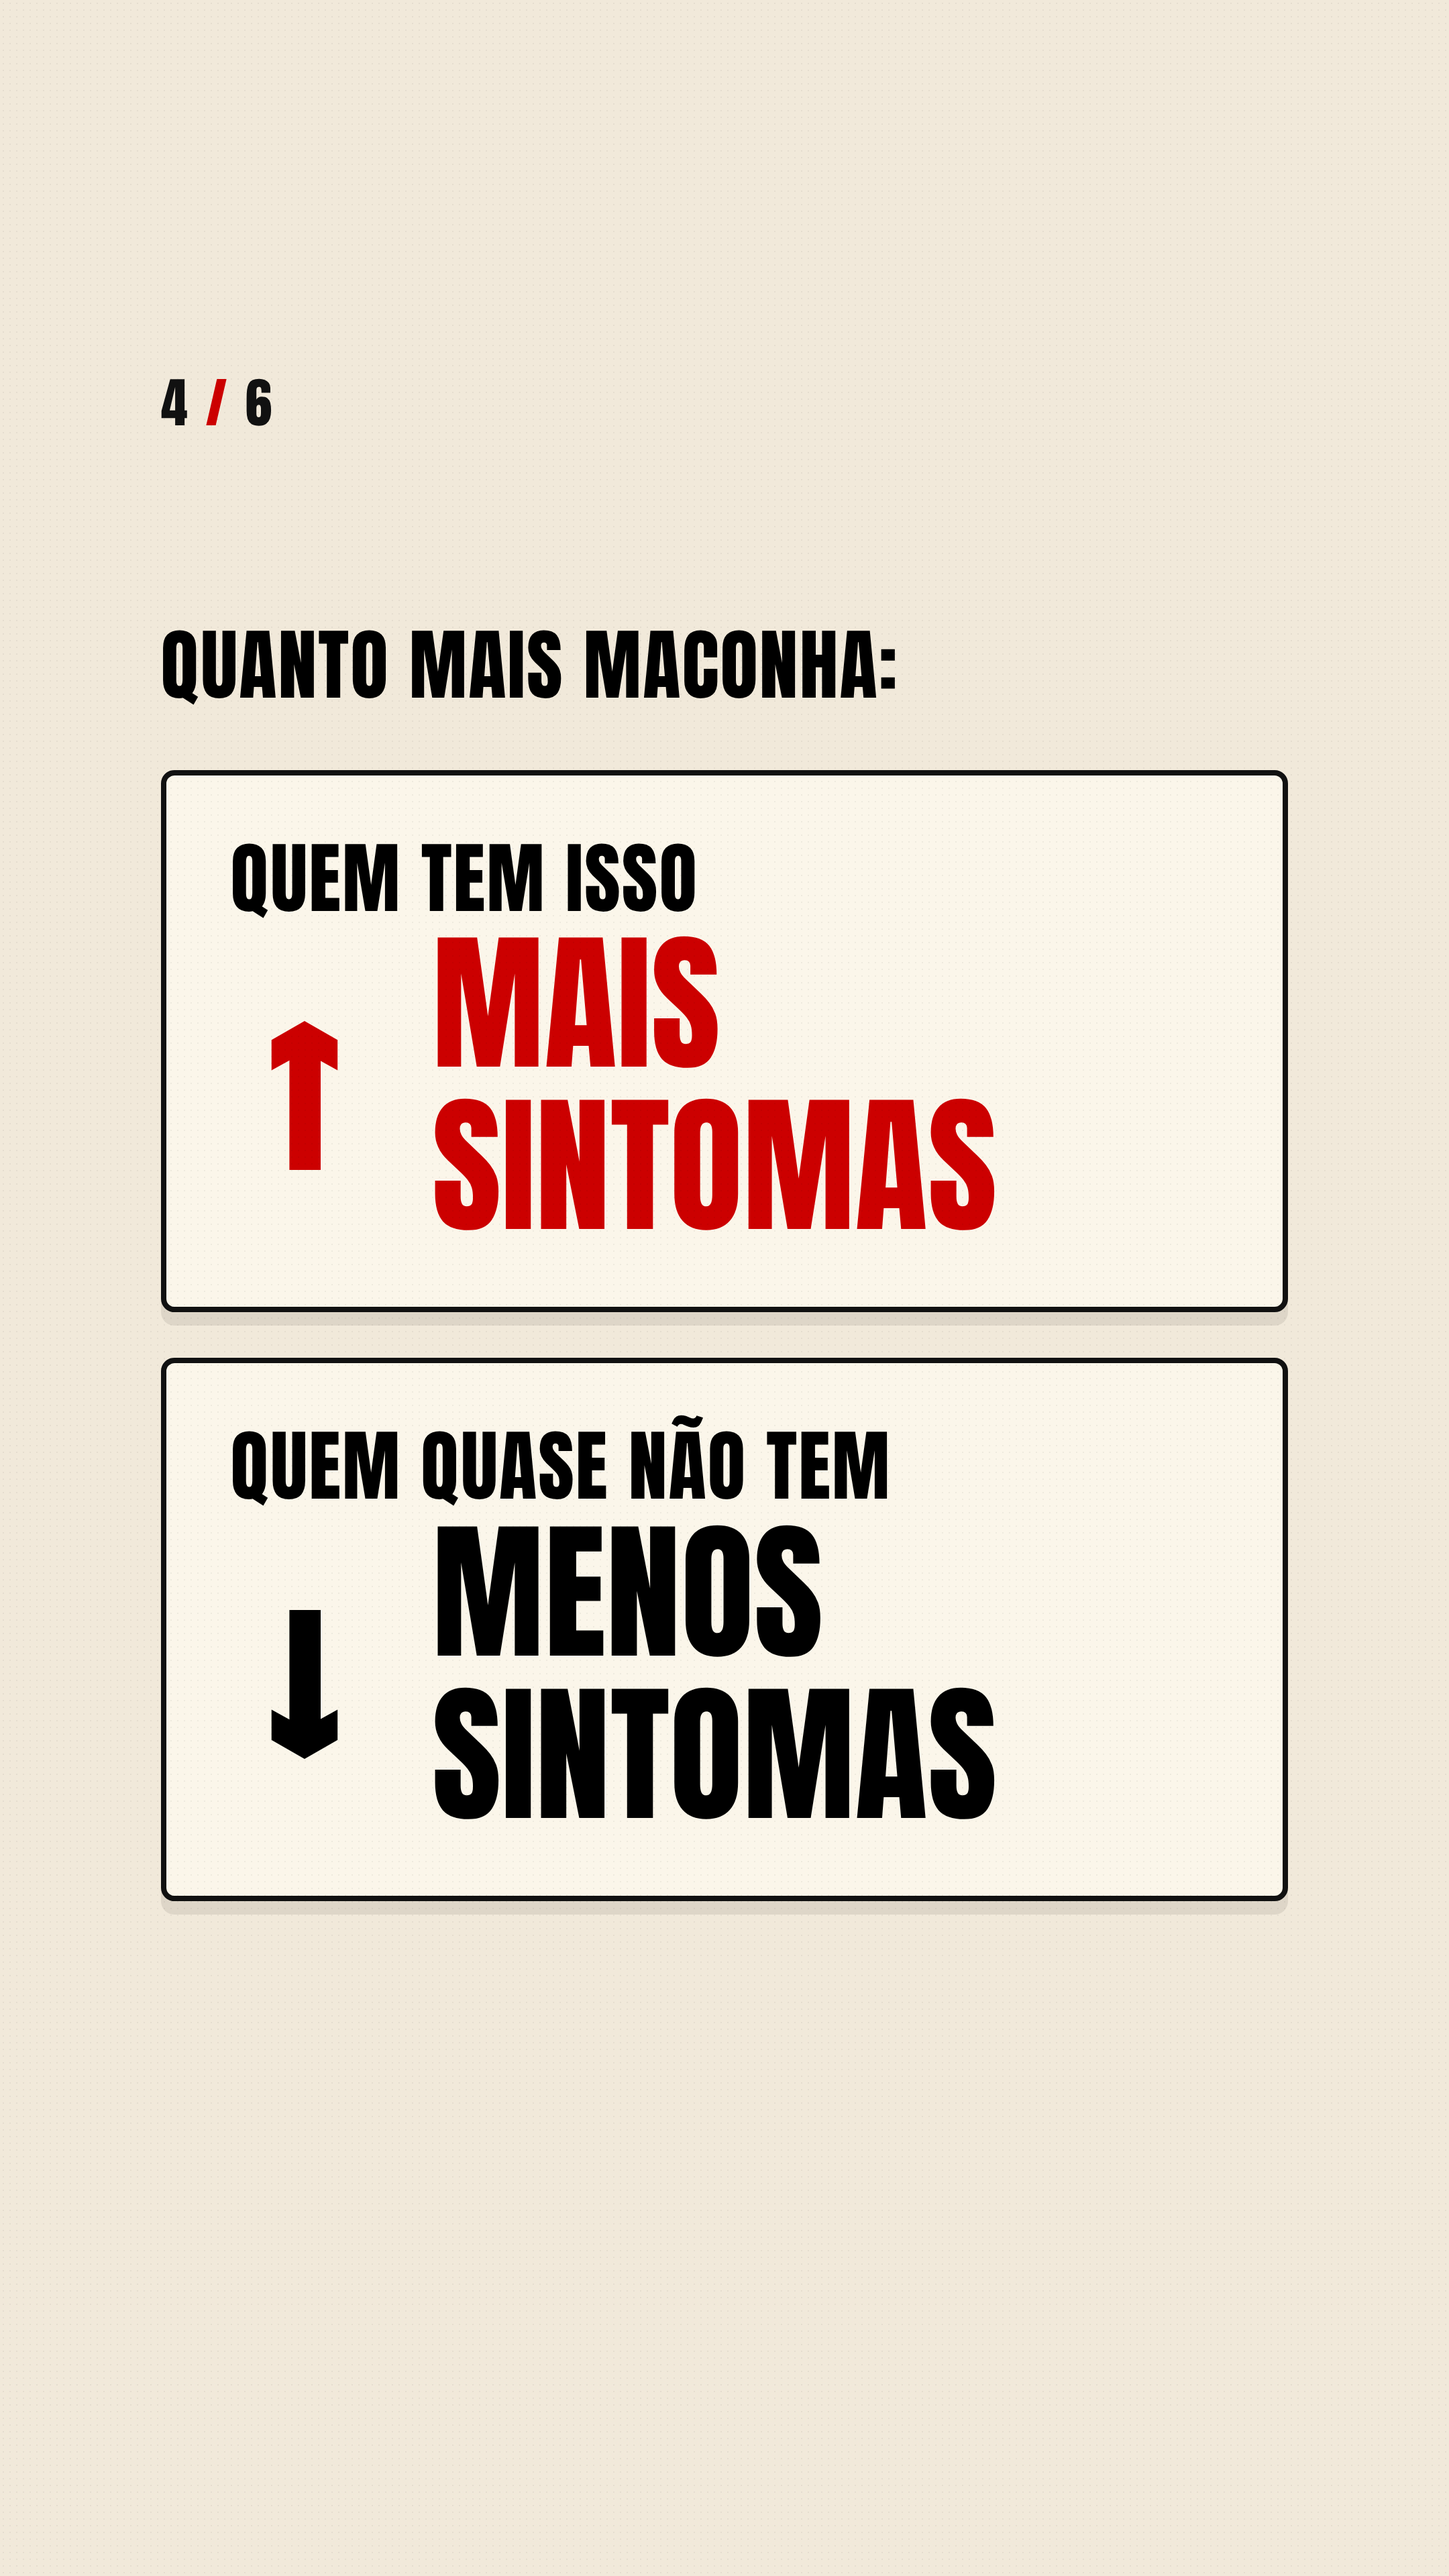
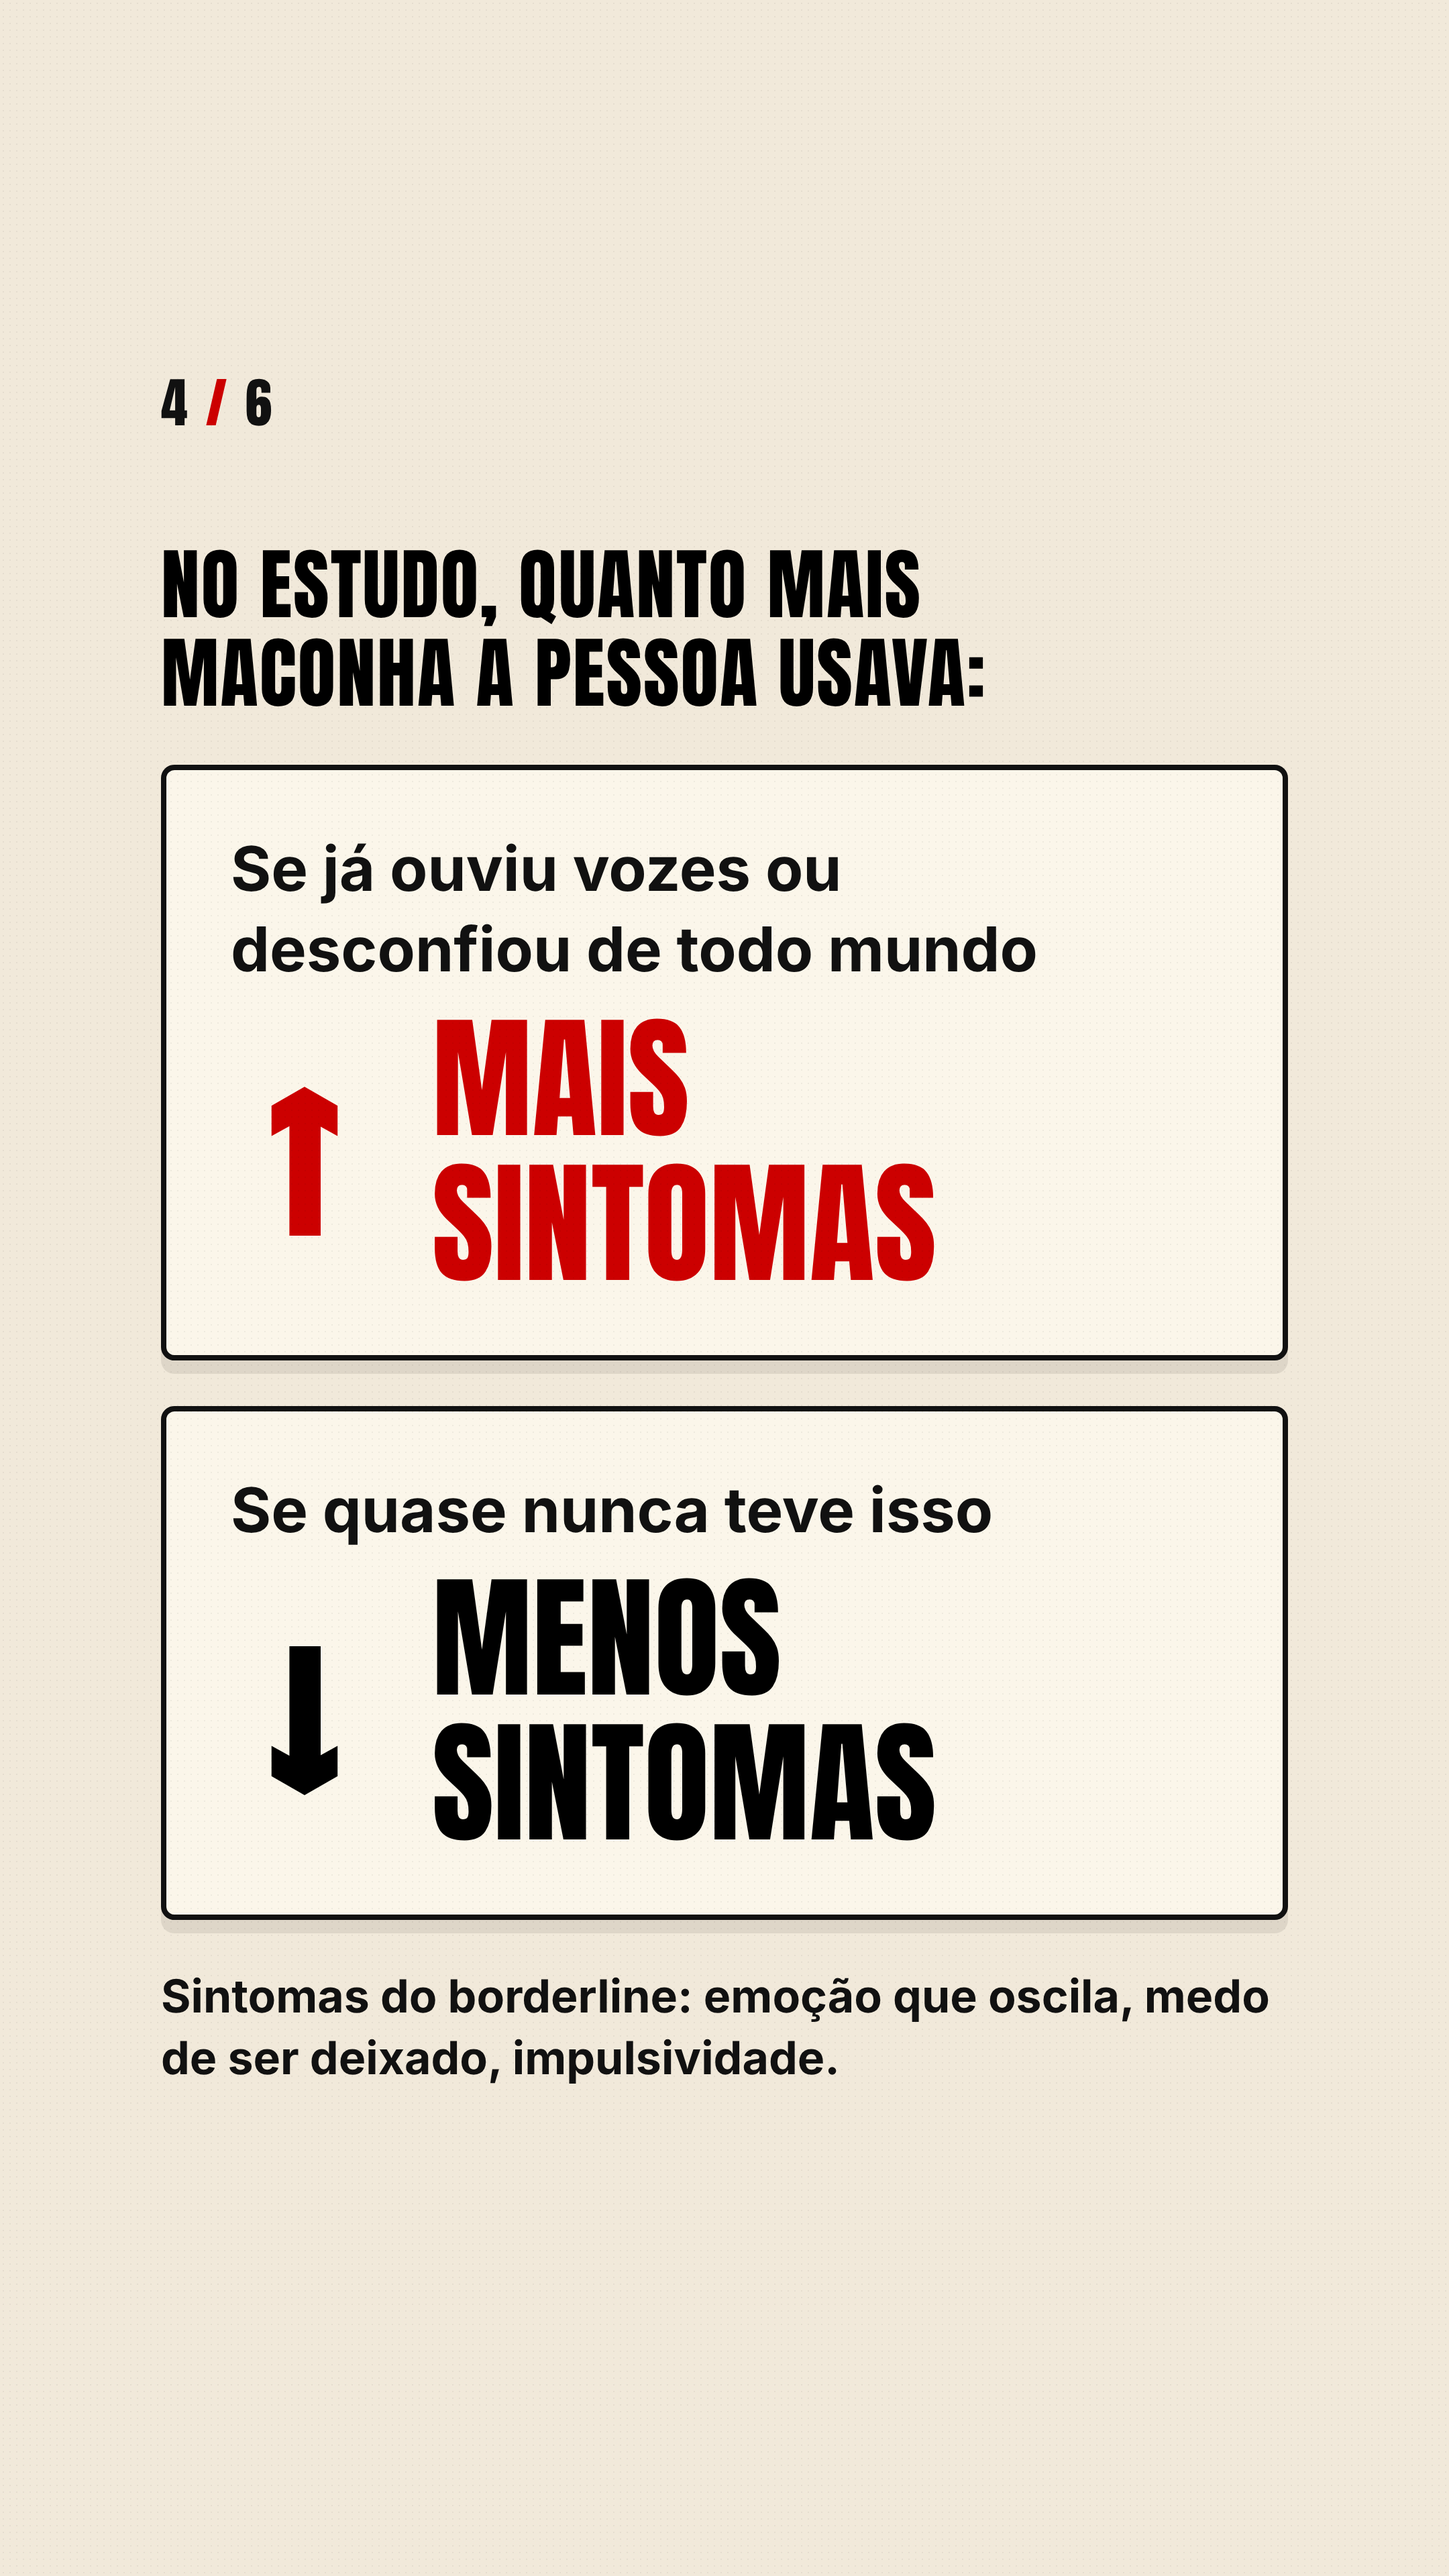
Story 4 da maconha mais claro: grupos escritos por extenso e o que são os sintomas
Claude-Session: https://claude.ai/code/session_01Y1aNYtvtZqvgtTj9KJyDZ6

Changed region(s): [[0.0931, 0.1875, 0.8995, 0.8125]]

diff --git a/entregas/stories-maconha-explicacao/stories.html b/entregas/stories-maconha-explicacao/stories.html
@@ -56,19 +56,20 @@
   <div class="safe">Se as vozes mandam você se machucar: CVV 188. Risco agora: SAMU 192.</div>
 </section>
 
-<section class="s" id="s4">
+<section class="s" id="s4" style="gap:34px; padding-top:400px; padding-bottom:360px;">
   <div class="n">4 <b>/</b> 6</div>
-  <div class="k">Quanto mais maconha:</div>
+  <div class="k">No estudo, quanto mais<br>maconha a pessoa usava:</div>
   <div class="cards">
     <div class="card">
-      <div class="k">Quem tem isso</div>
-      <div class="row"><div class="arrow red">&uarr;</div><div class="h m red">Mais<br>sintomas</div></div>
+      <div class="b" style="font-size:46px">Se já ouviu vozes ou desconfiou de todo mundo</div>
+      <div class="row" style="margin-top:12px"><div class="arrow red">&uarr;</div><div class="h m red" style="font-size:100px">Mais<br>sintomas</div></div>
     </div>
     <div class="card">
-      <div class="k">Quem quase não tem</div>
-      <div class="row"><div class="arrow">&darr;</div><div class="h m">Menos<br>sintomas</div></div>
+      <div class="b" style="font-size:46px">Se quase nunca teve isso</div>
+      <div class="row" style="margin-top:12px"><div class="arrow">&darr;</div><div class="h m" style="font-size:100px">Menos<br>sintomas</div></div>
     </div>
   </div>
+  <div class="src" style="font-size:34px; color:#111; font-weight:700">Sintomas do borderline: emoção que oscila, medo de ser deixado, impulsividade.</div>
 </section>
 
 <section class="s" id="s5">
